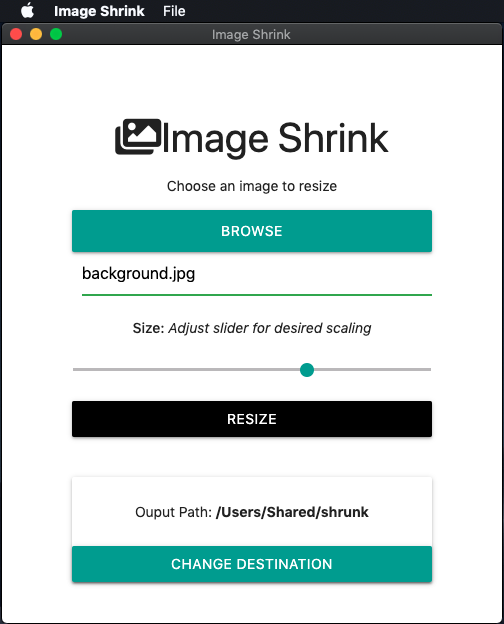
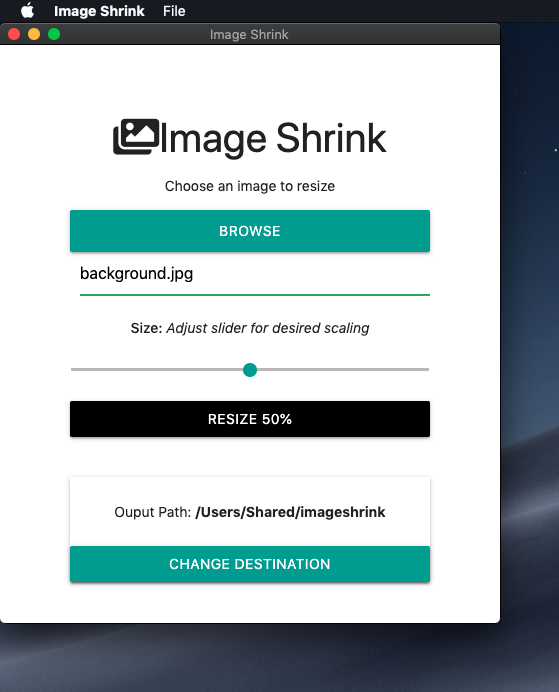
scaling percentage added to resize button, README updated

diff --git a/app/index.html b/app/index.html
@@ -32,7 +32,7 @@
           <input type="range" min="0" max="100" id="slider">
         </p>
 
-        <input type="submit" class="btn black" value="Resize">
+        <input type="submit" class="btn black" value="Resize 50%" id="resize">
       </form>
 
       <div class="card output">
@@ -56,6 +56,7 @@
       const img = document.getElementById('img');
       const directory = document.getElementById('directory');
 
+      // default output path
       document.getElementById('output-path').innerText = path.join(os.homedir(), 'imageshrink');
 
       // On change destination
@@ -68,6 +69,11 @@
         if (!canceled) {
           document.getElementById('output-path').innerText = filePaths[0];
         }
+      });
+
+      // On slider update
+      slider.addEventListener('change', () => {
+        document.getElementById('resize').value = `Resize ${slider.value}%`;
       });
 
       // On submit

diff --git a/app/about.html b/app/about.html
@@ -16,7 +16,7 @@
       </h4>
       <ul class="collection">
         <li class="collection-item">Developer: Jake Yukich</li>
-        <li class="collection-item">Version: 1.0.0</li>
+        <li class="collection-item">Version: 1.1.0</li>
       </ul>
     </div>
   </body>

diff --git a/README.md b/README.md
@@ -1,4 +1,4 @@
-# Image Shrink
+# Image Shrink ![Logo](assets/icons/Icon_32x32.png)
 
 An image-resizing app for scaling-down JPEGs and PNGs.
 Built with [Node](https://nodejs.org/) and [Electron](https://www.electronjs.org/).
